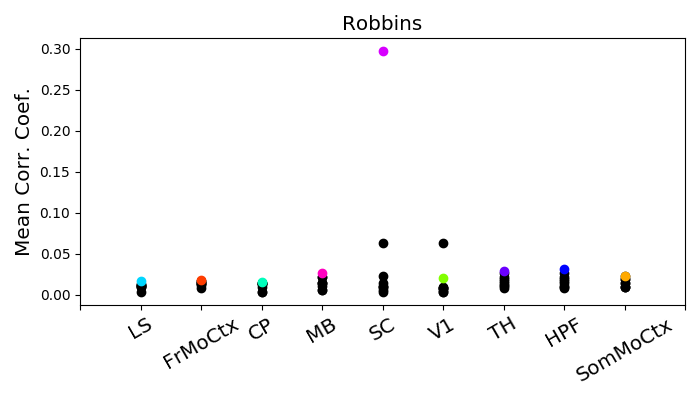
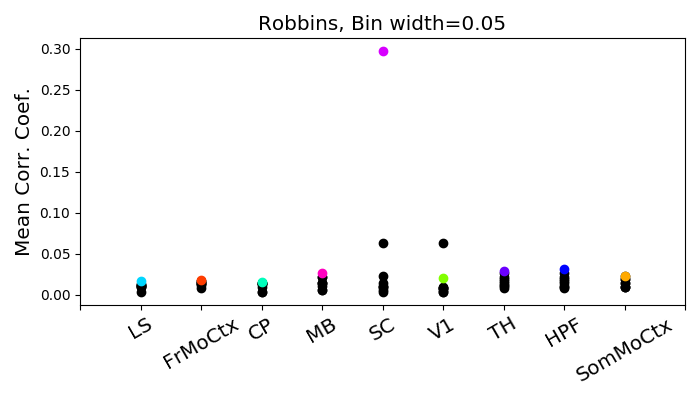
Edited the title part of plot_pairwise_regional_correlations.py, edited the load communities part of plot_communities.py.

Changed region(s): [[0.36, 0.03, 0.72, 0.09]]

diff --git a/py/plot_pairwise_regional_correlations.py b/py/plot_pairwise_regional_correlations.py
@@ -58,7 +58,7 @@ def plotWithinAcrossCorr(measure_frame, mouse_name, bin_width, use_title=False):
             plt.scatter(inds, np.repeat(regional_measure_frame.iloc[0]['mean_corr'],2), color='black')
     plt.xticks(range(0,regions.size+2), np.hstack([[''], regions]), fontsize='x-large', rotation=30)
     plt.ylabel('Mean Corr. Coef.', fontsize='x-large')
-    plt.title(mouse_name, fontsize='x-large') if use_title else None
+    plt.title(mouse_name + ', Bin width=' + str(bin_width), fontsize='x-large') if use_title else None
     plt.tight_layout()
     file_name = os.path.join(image_dir, 'within_between_comparison', mouse_name + '_' + str(bin_width).replace('.','p') + '_corr_comp.png')
     plt.savefig(file_name)

diff --git a/py/plot_communities.py b/py/plot_communities.py
@@ -39,7 +39,7 @@ def loadCommunityInfo(mouse_name, bin_width, npy_dir, correction='rectified', is
     Returns:    pandas DataFrame
     """
     sig_or_noise = '_signal' if is_signal else '_noise'
-    file_base_name = mouse_name + str(bin_width).replace('.', 'p') + '_' + correction + sig_or_noise + '_final_cell_info.pkl'
+    file_base_name = mouse_name + '_' + str(bin_width).replace('.', 'p') + '_' + correction + sig_or_noise + '_final_cell_info.pkl'
     return pd.read_pickle(os.path.join(npy_dir, 'communities', file_base_name))
 
 def plotRegionalClusterMap(signal_final_cell_info):
